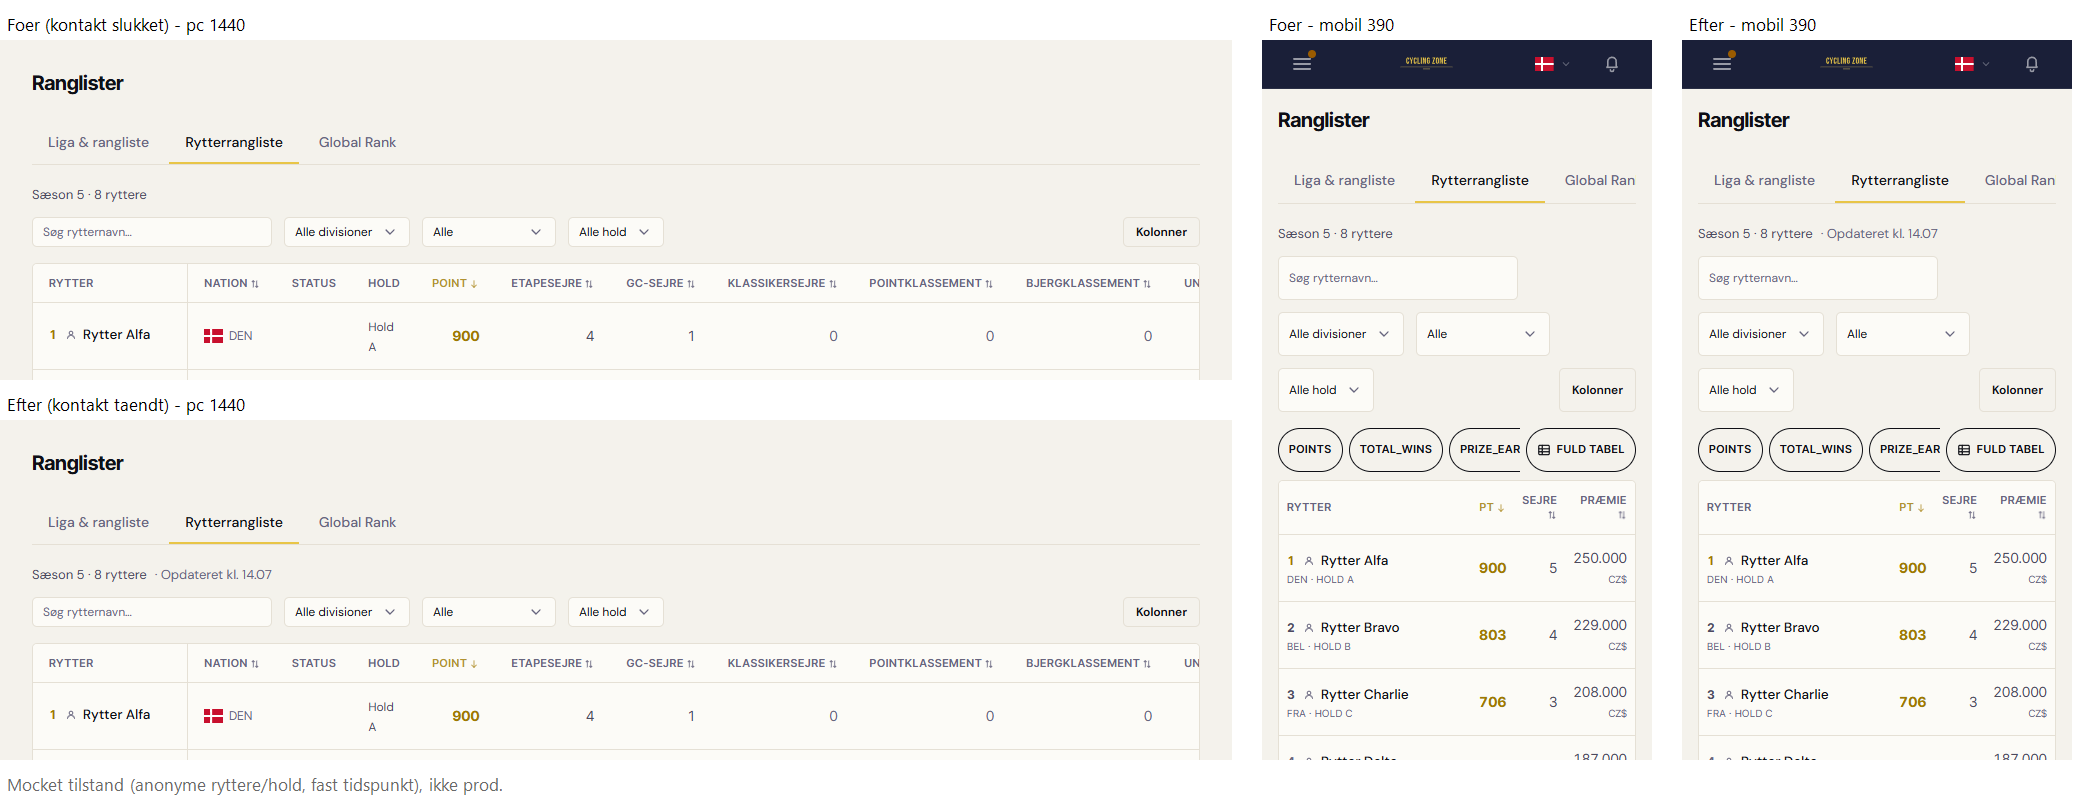
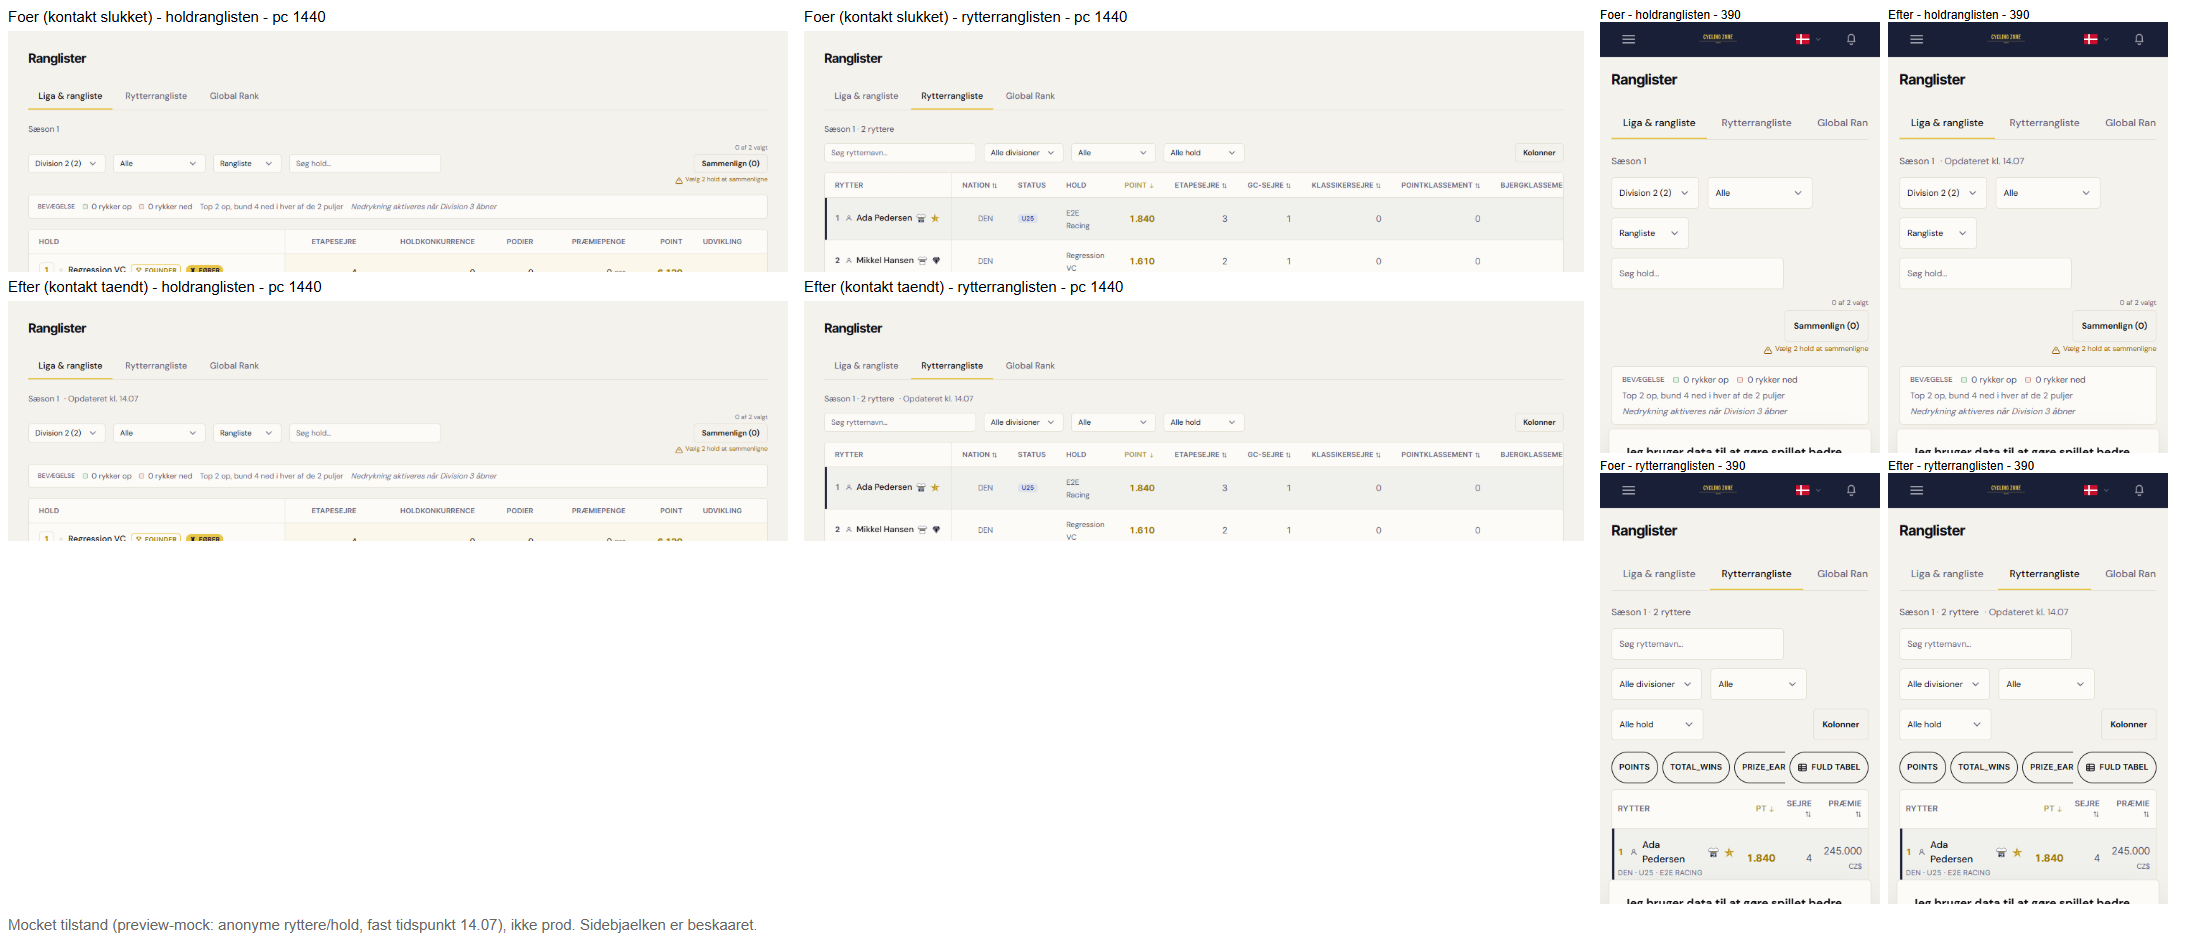
fix(rankings): forsiden filtrerer i databasen, noedvej, opdateret kl. paa holdranglisten (Refs #7664)
Reviewerens og Codex' fund paa PR #8140:
- Forsidens top 5 med kontakten taendt henter ikke laengere hele saesonens
  skyggetabel side for side. Puljens ryttere hentes som id'er, og
  skyggetabellen laeses i bidder paa season_id + rider_id med hoejst 5
  raekker pr. bid, samtidig. Prod-stoerrelser 13/11: 8 trin / ca. 5.970
  raekker foer, 5 trin / ca. 1.160 raekker nu. Ingen migration.
- Noedvej: fejler en laesning i den nye vej, rapporteres fejlen til Sentry,
  og forsiden bruger dagens RPC i stedet for at svare 500 (test).
- "Opdateret kl." vises ogsaa paa holdranglisten (samme komponent, samme
  metalinje, ingen ny tekst).
- Forsidens laesning tager et indsproejtet ur (now) videre til kildevalget;
  testen giver det faste ur.
- GAME_INVARIANTS: betinget laesekilde, noedvej, holdevindue og vagtens
  graense.
- docs/audits/7664-skygge-paritet.sql: den ordrette paritets-SELECT, kan
  koeres igen efter taending. Koert 13/11 kl. 17.57: 0 afvigelser i fire par.
- Foer/efter-arket viser nu begge ranglister (preview-mock).

Kontakten er fortsat slukket; slukket er alt som paa main.

diff --git a/backend/lib/rankingRead7664.test.js b/backend/lib/rankingRead7664.test.js
@@ -171,7 +171,7 @@ test("#7664 off = the exact tables of today, route by route; on = shadow tables,
 test("#7664 dashboard: legacy returns null without a query; ranking order is points, then rider id", async () => {
   reset();
   const client = recordingClient();
-  assert.equal(await readDashboardTopRiders7664(client, { seasonId: SEASON, leagueDivisionId: 4 }), null);
+  assert.equal(await readDashboardTopRiders7664(client, { seasonId: SEASON, leagueDivisionId: 4, now: () => NOW }), null);
   assert.deepEqual(client.tables, []);
 
   const display = new Map([
@@ -214,6 +214,90 @@ test("#7664 dashboard without a pool pages past retired leaders until five rider
   };
   const top = await readDashboardTopRiders7664(client, { seasonId: SEASON, leagueDivisionId: null, source: { source: "shadow", currentAsOf: null } });
   assert.deepEqual(top.map((row) => row.rider_id), ["r060", "r061", "r062", "r063", "r064"]);
+});
+
+// A pool fake: 24 teams, `poolSize` riders in the pool, every rider of the season
+// in the shadow table. Records every read so the test can count them.
+function poolClient({ poolSize, seasonRows, retired = new Set(), failOn = null }) {
+  const reads = [];
+  const poolIds = Array.from({ length: poolSize }, (_, i) => `p${String(i).padStart(4, "0")}`);
+  const stats = [
+    ...poolIds.map((id, i) => ({ rider_id: id, points: (i * 37) % 501, stage_wins: 0, gc_wins: 0, classic_wins: 0 })),
+    ...Array.from({ length: seasonRows - poolSize }, (_, i) => ({ rider_id: `x${i}`, points: 10_000 + i })),
+  ];
+  const query = (table) => {
+    const q = { table, filters: {}, limit: null, range: null, select: null };
+    const b = {
+      select: (columns) => { q.select = columns; return b; },
+      eq: (column, value) => { q.filters[column] = value; return b; },
+      in: (column, values) => { q.filters[column] = values; return b; },
+      order: () => b,
+      limit: (count) => { q.limit = count; return b; },
+      range: (lo, hi) => { q.range = [lo, hi]; return b; },
+      then: (resolve, reject) => Promise.resolve().then(() => {
+        reads.push(q);
+        if (failOn === table) return { data: null, error: { message: `${table} down` } };
+        let rows = [];
+        if (table === "teams") rows = Array.from({ length: 24 }, (_, i) => ({ id: `t${i}` }));
+        if (table === "riders" && q.filters.team_id) rows = poolIds.filter((id) => !retired.has(id)).map((id) => ({ id }));
+        if (table === "riders" && q.filters.id) rows = q.filters.id.filter((id) => !retired.has(id)).map((id) => ({ id, firstname: id, team: null }));
+        if (table === "ranking_rider_season") {
+          const wanted = new Set(q.filters.rider_id);
+          rows = stats.filter((row) => wanted.has(row.rider_id))
+            .sort((a, b) => b.points - a.points || (a.rider_id < b.rider_id ? -1 : 1));
+          if (q.limit != null) rows = rows.slice(0, q.limit);
+        }
+        if (q.range) rows = rows.slice(q.range[0], q.range[1] + 1);
+        return { data: rows, error: null };
+      }).then(resolve, reject),
+    };
+    return b;
+  };
+  return { reads, poolIds, stats, from: query, rpc: async () => ({ data: null, error: null }) };
+}
+const SHADOW = { source: "shadow", currentAsOf: null };
+
+test("#7664 dashboard with a pool: few small reads filtered in the database, same top 5 as the full scan", async () => {
+  reset();
+  // Prod 13/11: largest pool 1,072 riders, 4,878 rows in the active season.
+  const retired = new Set(["p0013", "p0257"]);
+  const client = poolClient({ poolSize: 1072, seasonRows: 4878, retired });
+  const top = await readDashboardTopRiders7664(client, { seasonId: SEASON, leagueDivisionId: 1, source: SHADOW });
+
+  // Reference: the full pool scan the reviewer flagged (every row, filter in Node).
+  const visible = new Map(client.poolIds.filter((id) => !retired.has(id)).map((id) => [id, { id, firstname: id, team: null }]));
+  const expected = pickDashboardTopRiders(client.stats.filter((row) => visible.has(row.rider_id)), visible);
+  assert.deepEqual(top, expected);
+  assert.equal(top.length, 5);
+
+  const shadowReads = client.reads.filter((q) => q.table === "ranking_rider_season");
+  assert.equal(shadowReads.length, Math.ceil(1070 / 100), "one read per 100 pool riders");
+  for (const q of shadowReads) {
+    assert.equal(q.limit, 5);
+    assert.equal(q.filters.season_id, SEASON);
+    assert.ok(q.filters.rider_id.length <= 100);
+  }
+  // Never an unfiltered read of the whole season.
+  assert.equal(shadowReads.filter((q) => !q.filters.rider_id).length, 0);
+  const riderReads = client.reads.filter((q) => q.table === "riders");
+  assert.equal(riderReads.filter((q) => q.filters.team_id).every((q) => q.select === "id"), true);
+  assert.deepEqual(riderReads.filter((q) => q.filters.id).map((q) => q.filters.id.length), [5]);
+});
+
+test("#7664 dashboard safety net: a failing shadow read is reported and returns null (today's RPC)", async () => {
+  for (const [failOn, leagueDivisionId] of [["ranking_rider_season", 1], ["riders", 1], ["teams", 1], ["ranking_rider_season", null]]) {
+    reset();
+    const client = poolClient({ poolSize: 50, seasonRows: 80, failOn });
+    const captured = [];
+    const top = await readDashboardTopRiders7664(client, {
+      seasonId: SEASON, leagueDivisionId, source: SHADOW,
+      captureExceptionFn: (error, context) => captured.push({ error, context }),
+    });
+    assert.equal(top, null, `${failOn} / ${leagueDivisionId}`);
+    assert.equal(captured.length, 1);
+    assert.match(captured[0].error.message, /down/);
+    assert.deepEqual(captured[0].context.tags, { lib: "rankingRead7664", path: "dashboard-top" });
+  }
 });
 
 // A coordinator fake for the gated path: pending work of a given age.

diff --git a/backend/lib/rankingRead7664.js b/backend/lib/rankingRead7664.js
@@ -19,7 +19,7 @@
 import { AsyncLocalStorage } from "node:async_hooks";
 import { Router } from "express";
 import { readFlagStage, evaluateFlagStage } from "./featureStage.js";
-import { fetchAllRows } from "./supabasePagination.js";
+import { fetchAllRows, SUPABASE_IN_CHUNK_SIZE } from "./supabasePagination.js";
 
 export const RANKING_READ_FLAG_7664 = "ranking_shadow_decoupled_6765";
 export const RANKING_SHADOW_WRITE_FLAG = "ranking_shadow_enabled";
@@ -156,6 +156,7 @@ export function createRankingFreshnessRouter({ supabase, requireAuth, reportErro
 }
 
 const n = (value) => Number(value) || 0;
+const byPointsThenId = (a, b) => n(b.points) - n(a.points) || (a.rider_id < b.rider_id ? -1 : a.rider_id > b.rider_id ? 1 : 0);
 
 /**
  * Ren funktion: forsidens top 5 ud fra rytterranglistens raekker, i samme
@@ -181,22 +182,41 @@ export function pickDashboardTopRiders(stats, displayById, limit = 5) {
       classic_wins: n(stat.classic_wins),
     });
   }
-  rows.sort((a, b) => b.points - a.points || (a.rider_id < b.rider_id ? -1 : a.rider_id > b.rider_id ? 1 : 0));
+  rows.sort(byPointsThenId);
   return rows.slice(0, limit);
 }
 
 const DISPLAY_COLUMNS = "id,firstname,lastname,nationality_code,team:team_id(name,is_ai,league_division_id)";
 const TOP_STAT_COLUMNS = "rider_id,points,stage_wins,gc_wins,classic_wins";
+const DASHBOARD_TOP_LIMIT = 5;
 
 /**
  * Forsidens top 5 fra rytterranglistens skyggetabel. Returnerer null, naar
  * kilden er matviews: saa koerer forsiden praecis som i dag.
+ *
+ * Nødvej: fejler en laesning i den nye vej, rapporteres fejlen, og der
+ * returneres null, saa forsiden bruger dagens RPC i stedet for at svare 500
+ * (samme sikkerhedsnet som kildevalget).
  * @param {any} supabase
- * @param {{ seasonId: string, leagueDivisionId: number|null, source?: RankingReadSource, captureExceptionFn?: CaptureFn }} options
+ * @param {{ seasonId: string, leagueDivisionId: number|null, source?: RankingReadSource, captureExceptionFn?: CaptureFn, now?: () => number }} options
  */
-export async function readDashboardTopRiders7664(supabase, { seasonId, leagueDivisionId, source, captureExceptionFn }) {
-  const chosen = source ?? await resolveRankingReadSource(supabase, { captureExceptionFn });
+export async function readDashboardTopRiders7664(supabase, { seasonId, leagueDivisionId, source, captureExceptionFn, now = Date.now }) {
+  const chosen = source ?? await resolveRankingReadSource(supabase, { captureExceptionFn, now });
   if (chosen.source !== "shadow") return null;
+  try {
+    return await readShadowTopRiders(supabase, { seasonId, leagueDivisionId });
+  } catch (error) {
+    // best-effort: forsiden falder tilbage til dagens RPC (api.js).
+    // Supabase-fejl er ofte et objekt med `message`, ikke en Error.
+    const message = error instanceof Error ? error.message : String(/** @type {{ message?: unknown }} */ (error)?.message ?? error);
+    captureExceptionFn?.(error instanceof Error ? error : new Error(message), {
+      tags: { lib: "rankingRead7664", path: "dashboard-top" },
+    });
+    return null;
+  }
+}
+
+async function readShadowTopRiders(supabase, { seasonId, leagueDivisionId }) {
   const table = SHADOW_READ_TABLES.rider_rankings_mv;
   if (leagueDivisionId == null) {
     // Ingen pulje: hele ranglisten, som rytterfanens standard. Bladrer i
@@ -227,10 +247,31 @@ export async function readDashboardTopRiders7664(supabase, { seasonId, leagueDiv
   if (teamsError) throw teamsError;
   const teamIds = (teams || []).map((row) => row.id);
   if (!teamIds.length) return [];
-  const display = await fetchAllRows(() => supabase.from("riders").select(DISPLAY_COLUMNS)
+  // Kun id'er (ca. 600-1.100 pr. pulje i prod 13/11, een til to sider).
+  const poolRiders = await fetchAllRows(() => supabase.from("riders").select("id")
     .in("team_id", teamIds).eq("is_retired", false).order("id"));
-  const displayById = new Map(display.map((row) => [row.id, row]));
-  const stats = await fetchAllRows(() => supabase.from(table).select(TOP_STAT_COLUMNS)
-    .eq("season_id", seasonId).order("rider_id"));
-  return pickDashboardTopRiders(stats.filter((row) => displayById.has(row.rider_id)), displayById);
+  const ids = poolRiders.map((row) => row.id);
+  if (!ids.length) return [];
+  // Top 5 pr. bid af puljens ryttere, filtreret og sorteret i databasen (unik
+  // noegle season_id + rider_id). Den samlede top 5 ligger altid i foreningen
+  // af hver bids top 5, saa hver laesning er hoejst fem raekker. Bidderne
+  // koeres samtidig. Foer hentede denne vej hele saesonens tabel side for side.
+  const chunks = [];
+  for (let i = 0; i < ids.length; i += SUPABASE_IN_CHUNK_SIZE) chunks.push(ids.slice(i, i + SUPABASE_IN_CHUNK_SIZE));
+  const perChunk = await Promise.all(chunks.map(async (chunk) => {
+    // pagination-safe: limit(5) per chunk of at most SUPABASE_IN_CHUNK_SIZE ids.
+    const { data, error } = await supabase.from(table).select(TOP_STAT_COLUMNS)
+      .eq("season_id", seasonId).in("rider_id", chunk)
+      .order("points", { ascending: false, nullsFirst: false }).order("rider_id").limit(DASHBOARD_TOP_LIMIT);
+    if (error) throw error;
+    return data || [];
+  }));
+  const top = perChunk.flat().sort(byPointsThenId).slice(0, DASHBOARD_TOP_LIMIT);
+  if (!top.length) return [];
+  // pagination-safe: at most DASHBOARD_TOP_LIMIT ids.
+  const { data: display, error: displayError } = await supabase.from("riders").select(DISPLAY_COLUMNS)
+    .in("id", top.map((row) => row.rider_id)).eq("is_retired", false);
+  if (displayError) throw displayError;
+  const displayById = new Map((display || []).map((row) => [row.id, row]));
+  return pickDashboardTopRiders(top, displayById);
 }

diff --git a/frontend/src/pages/StandingsPage.jsx b/frontend/src/pages/StandingsPage.jsx
@@ -12,6 +12,7 @@ import { ABILITY_SELECT, ABILITY_SHORT, flattenAbilities } from "../lib/abilitie
 import { mergeStandings } from "../lib/standingsMerge";
 import { fetchAllRows } from "../lib/supabasePagination";
 import { fetchTeamStandings, fetchTeamRacePoints } from "../lib/rankingsApi.ts";
+import UpdatedAtLine from "../components/rankings/UpdatedAtLine.tsx"; // #7664
 import { useRealtimeRefetch } from "../hooks/useRealtimeRefetch";
 import useFlipRows from "../hooks/useFlipRows";
 import {
@@ -754,6 +755,7 @@ export default function StandingsPage() {
           for tre faner og kan ikke bære den. */}
       <p className="mb-3 text-[13px] text-cz-2">
         {season ? t("season", { n: season.number }) : t("noActiveSeason")}
+        {season && <UpdatedAtLine />}{/* #7664: kun naar de nye tabeller laeses */}
       </p>
 
       {/* Filter-bar (T2-recept): op til 3 Selects + search Input, compare-handling

diff --git a/backend/routes/api.js b/backend/routes/api.js
@@ -13850,7 +13850,8 @@ router.get("/dashboard/rider-ranking", requireAuth, cached({
       .from("seasons").select("id").eq("status", "active").maybeSingle();
     if (seasonError) throw seasonError;
     if (!season) return res.json({ riders: [] });
-    // #7664: kontakten taendt -> samme tabel og omfang som "Fuld rangliste"; slukket -> null, dagens RPC.
+    // #7664: kontakten taendt -> samme tabel og omfang som "Fuld rangliste"; slukket eller fejl i
+    // den nye vej -> null (fejlen rapporteres til Sentry), og dagens RPC nedenfor bruges.
     const shadowRiders = await readDashboardTopRiders7664(supabase, { seasonId: season.id, leagueDivisionId: req.team.league_division_id ?? null, captureExceptionFn: captureException });
     if (shadowRiders) return res.json({ riders: shadowRiders });
 

diff --git a/docs/GAME_INVARIANTS.md b/docs/GAME_INVARIANTS.md
@@ -155,7 +155,8 @@ i separate transaktioner, så dette lover ikke én atomisk fem-view-publicering.
 
 Cron checker work hvert minut og kører ingen full refresh på clean state.
 Finalization-hooken planlægger en samlet baggrundswakeup og returnerer straks.
-Træningsprioritet må udskyde indtil to minutter fra den holdbare ældste ændring;
+Træningsprioritet må udskyde indtil to minutter fra den holdbare ældste ændring
+(plus #7664-holdevinduet nedenfor, når læserne bruger skyggen);
 ventetid/genstart nulstiller ikke alderen. Safe er en eksplicit forced repair og
 kvitterer ikke busy som færdig. Watchdog bruger pending work, ikke alene import-
 timestamp; et clean snapshot får ikke en ny beregningstid på uændrede ticks.
@@ -172,7 +173,8 @@ viser samme snapshots og læsning under concurrent writer-lock; begge forsøg
 rulles tilbage. Det er ikke en fuld løbsdagsmåling.
 
 **Inkrementel M1-skygge (#6765, design PR #6849, build-mandat 19/10):**
-De eksisterende matviews serverer fortsat; dette er ingen M2-aktivering.
+De eksisterende matviews serverer læserne, medmindre #7664's betingede
+læsekilde nedenfor er tændt; selve skyggen er ingen M2-aktivering.
 Den særskilte `ranking_shadow_decoupled_6765` seedes off. Off, manglende
 konfiguration eller opslagsfejl bevarer den hidtidige rækkefølge. On forsøger
 skyggepasset efter legacy-publicering og coordinatorens finish, også efter
@@ -250,6 +252,25 @@ Sentry (queue-stall).
 Supabase-branch-bevis: audits/2026-10-19-6765-operational-readiness.md.
 M2 kræver stadig
 staging T7 og designets særskilte observations-/ejerporte.
+
+**Betinget læsekilde (#7664, ejer-valg 13/11, `backend/lib/rankingRead7664.js`):**
+Rangliste-ruterne og forsidens top 5 læser skyggetabellerne
+(`ranking_rider_season`, `ranking_youth_rider_season`, `ranking_team_season_ext`,
+`ranking_team_race_points`) i stedet for de fire matviews KUN når både
+`ranking_shadow_decoupled_6765` og `ranking_shadow_enabled` tillader engineWrite,
+og skyggekøens ældste post højst er 30 minutter gammel. Ellers, og ved enhver fejl
+i kildevalget, læses matviews som før. `global_rank_mv` har ingen skygge og læses
+altid som før. Kildevalget huskes 10 sekunder pr. backend-klient.
+Nødvej: fejler forsidens læsning i skyggen, rapporteres fejlen til Sentry, og
+forsiden bruger dagens `dashboard_rider_ranking`-RPC (intet 500-svar).
+Holdevindue: mens kilden er skyggen, kører cron/vækkeur ikke den fulde
+matview-genberegning, før den ældste ventende ændring er 15 minutter gammel;
+træningens udskydelsesloft forlænges med samme 15 minutter. Tvungne
+genberegninger (Safe) holdes ikke. Watchdoggens matview-grænse (5 minutter) får
+samme 15 minutter lagt til, kun mens kilden er skyggen. Med kontakten slukket er
+holdevinduet 0, og alle grænser er som ovenfor. `/api/rankings/freshness`
+returnerer `current_as_of` (nu ved tom kø, ellers den ældste ventende ændrings
+tidspunkt) kun når kilden er skyggen; frontendens "Opdateret kl." vises kun da.
 
 **Concurrent RPC-overloads (#5692, separat SQL-forberedelse):**
 `database/2026-10-05-5692-ranking-refresh.sql` tilfoejer de fem refresh-funktioners
